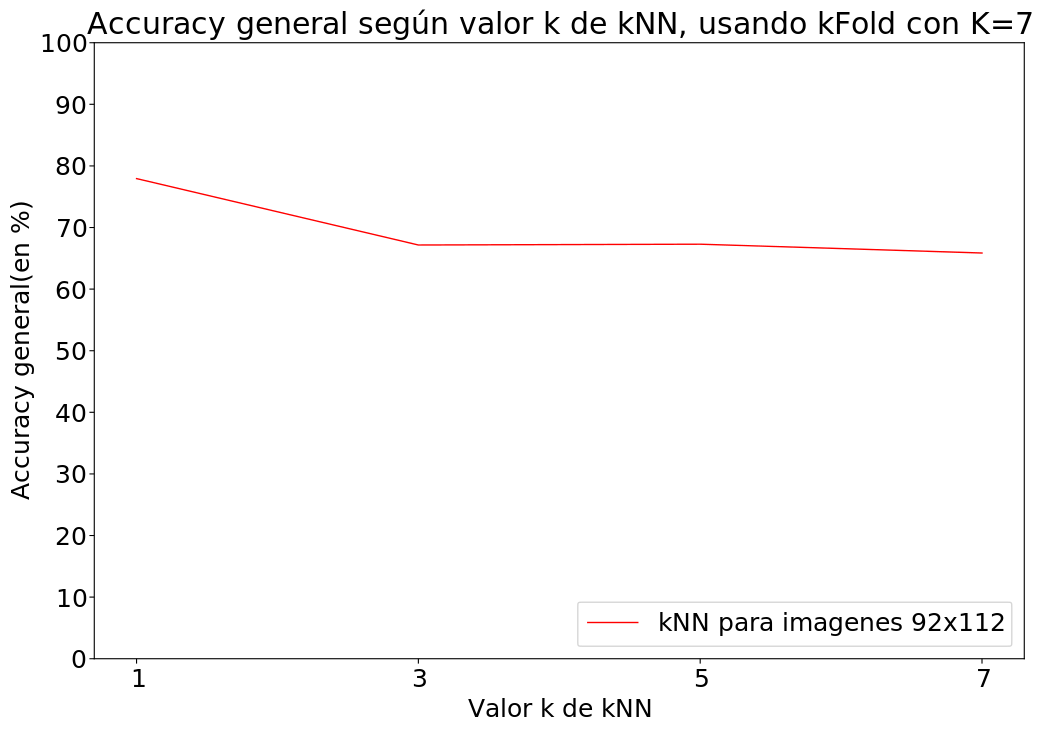
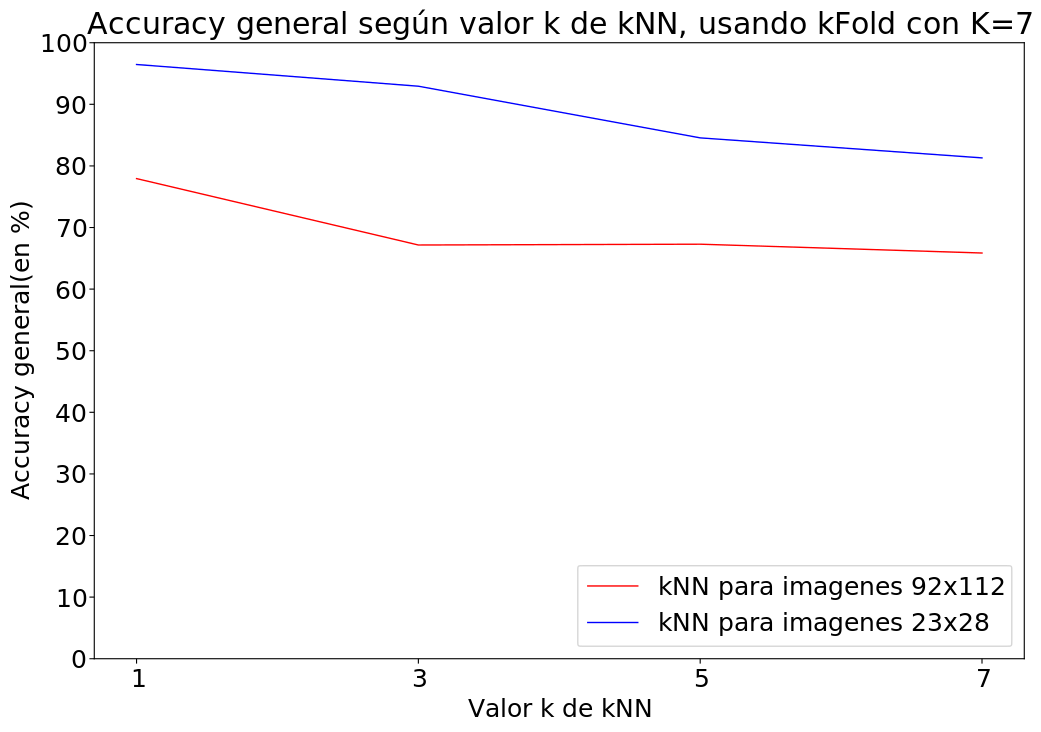
subido los graficoss

diff --git a/tp2/src_nuevo/graficar_exp1.py b/tp2/src_nuevo/graficar_exp1.py
@@ -45,16 +45,26 @@ for K in Kfolds:
         eje_precision_big.append(datos_sinPCA_big[i][2])
         eje_recall_big.append(datos_sinPCA_big[i][3])
 
+    datos_sinPCA_red = leer_promedios_sinPCA(carpeta_red_sinPCA, esquema_red_sinPCA,knn_valores, K)
+    eje_accuracy_red = []
+    eje_precision_red = []
+    eje_recall_red = []
+
+    for i in sorted(datos_sinPCA_red.keys()):
+        eje_accuracy_red.append(datos_sinPCA_red[i][1])
+        eje_precision_red.append(datos_sinPCA_red[i][2])
+        eje_recall_red.append(datos_sinPCA_red[i][3])
+
     # Agrupamos los datos y graficamos
     todos = list()
     
-    d = [eje_accuracy_big]#, eje_accuracy_red]
+    d = [eje_accuracy_big, eje_accuracy_red]
     todos.append(d)
 
-    d = [eje_precision_big]#, eje_precision_red]
+    d = [eje_precision_big, eje_precision_red]
     todos.append(d)
 
-    d = [eje_recall_big]#, eje_recall_red]
+    d = [eje_recall_big, eje_recall_red]
     todos.append(d)
 
     for i in range(0, len(d) + 1):
@@ -76,26 +86,16 @@ for K in Kfolds:
         eje_precision_big.append(datos_conPCA_big[i][2])
         eje_recall_big.append(datos_conPCA_big[i][3])
 
-    datos_conPCA_red = leer_promedios_conPCA(carpeta_red_conPCA, esquema_red_conPCA,alphas,knn, K)
-    eje_accuracy_red = []
-    eje_precision_red = []
-    eje_recall_red = []
-
-    for i in sorted(datos_conPCA_red.keys()):
-        eje_accuracy_red.append(datos_conPCA_red[i][1])
-        eje_precision_red.append(datos_conPCA_red[i][2])
-        eje_recall_red.append(datos_conPCA_red[i][3])
-
     # Agrupamos los datos y graficamos
     todos = list()
     
-    d = [eje_accuracy_big, eje_accuracy_red]
+    d = [eje_accuracy_big]#, eje_accuracy_red]
     todos.append(d)
 
-    d = [eje_precision_big, eje_precision_red]
+    d = [eje_precision_big]#, eje_precision_red]
     todos.append(d)
 
-    d = [eje_recall_big, eje_recall_red]
+    d = [eje_recall_big]#, eje_recall_red]
     todos.append(d)
 
     for i in range(0, len(d) + 1):
